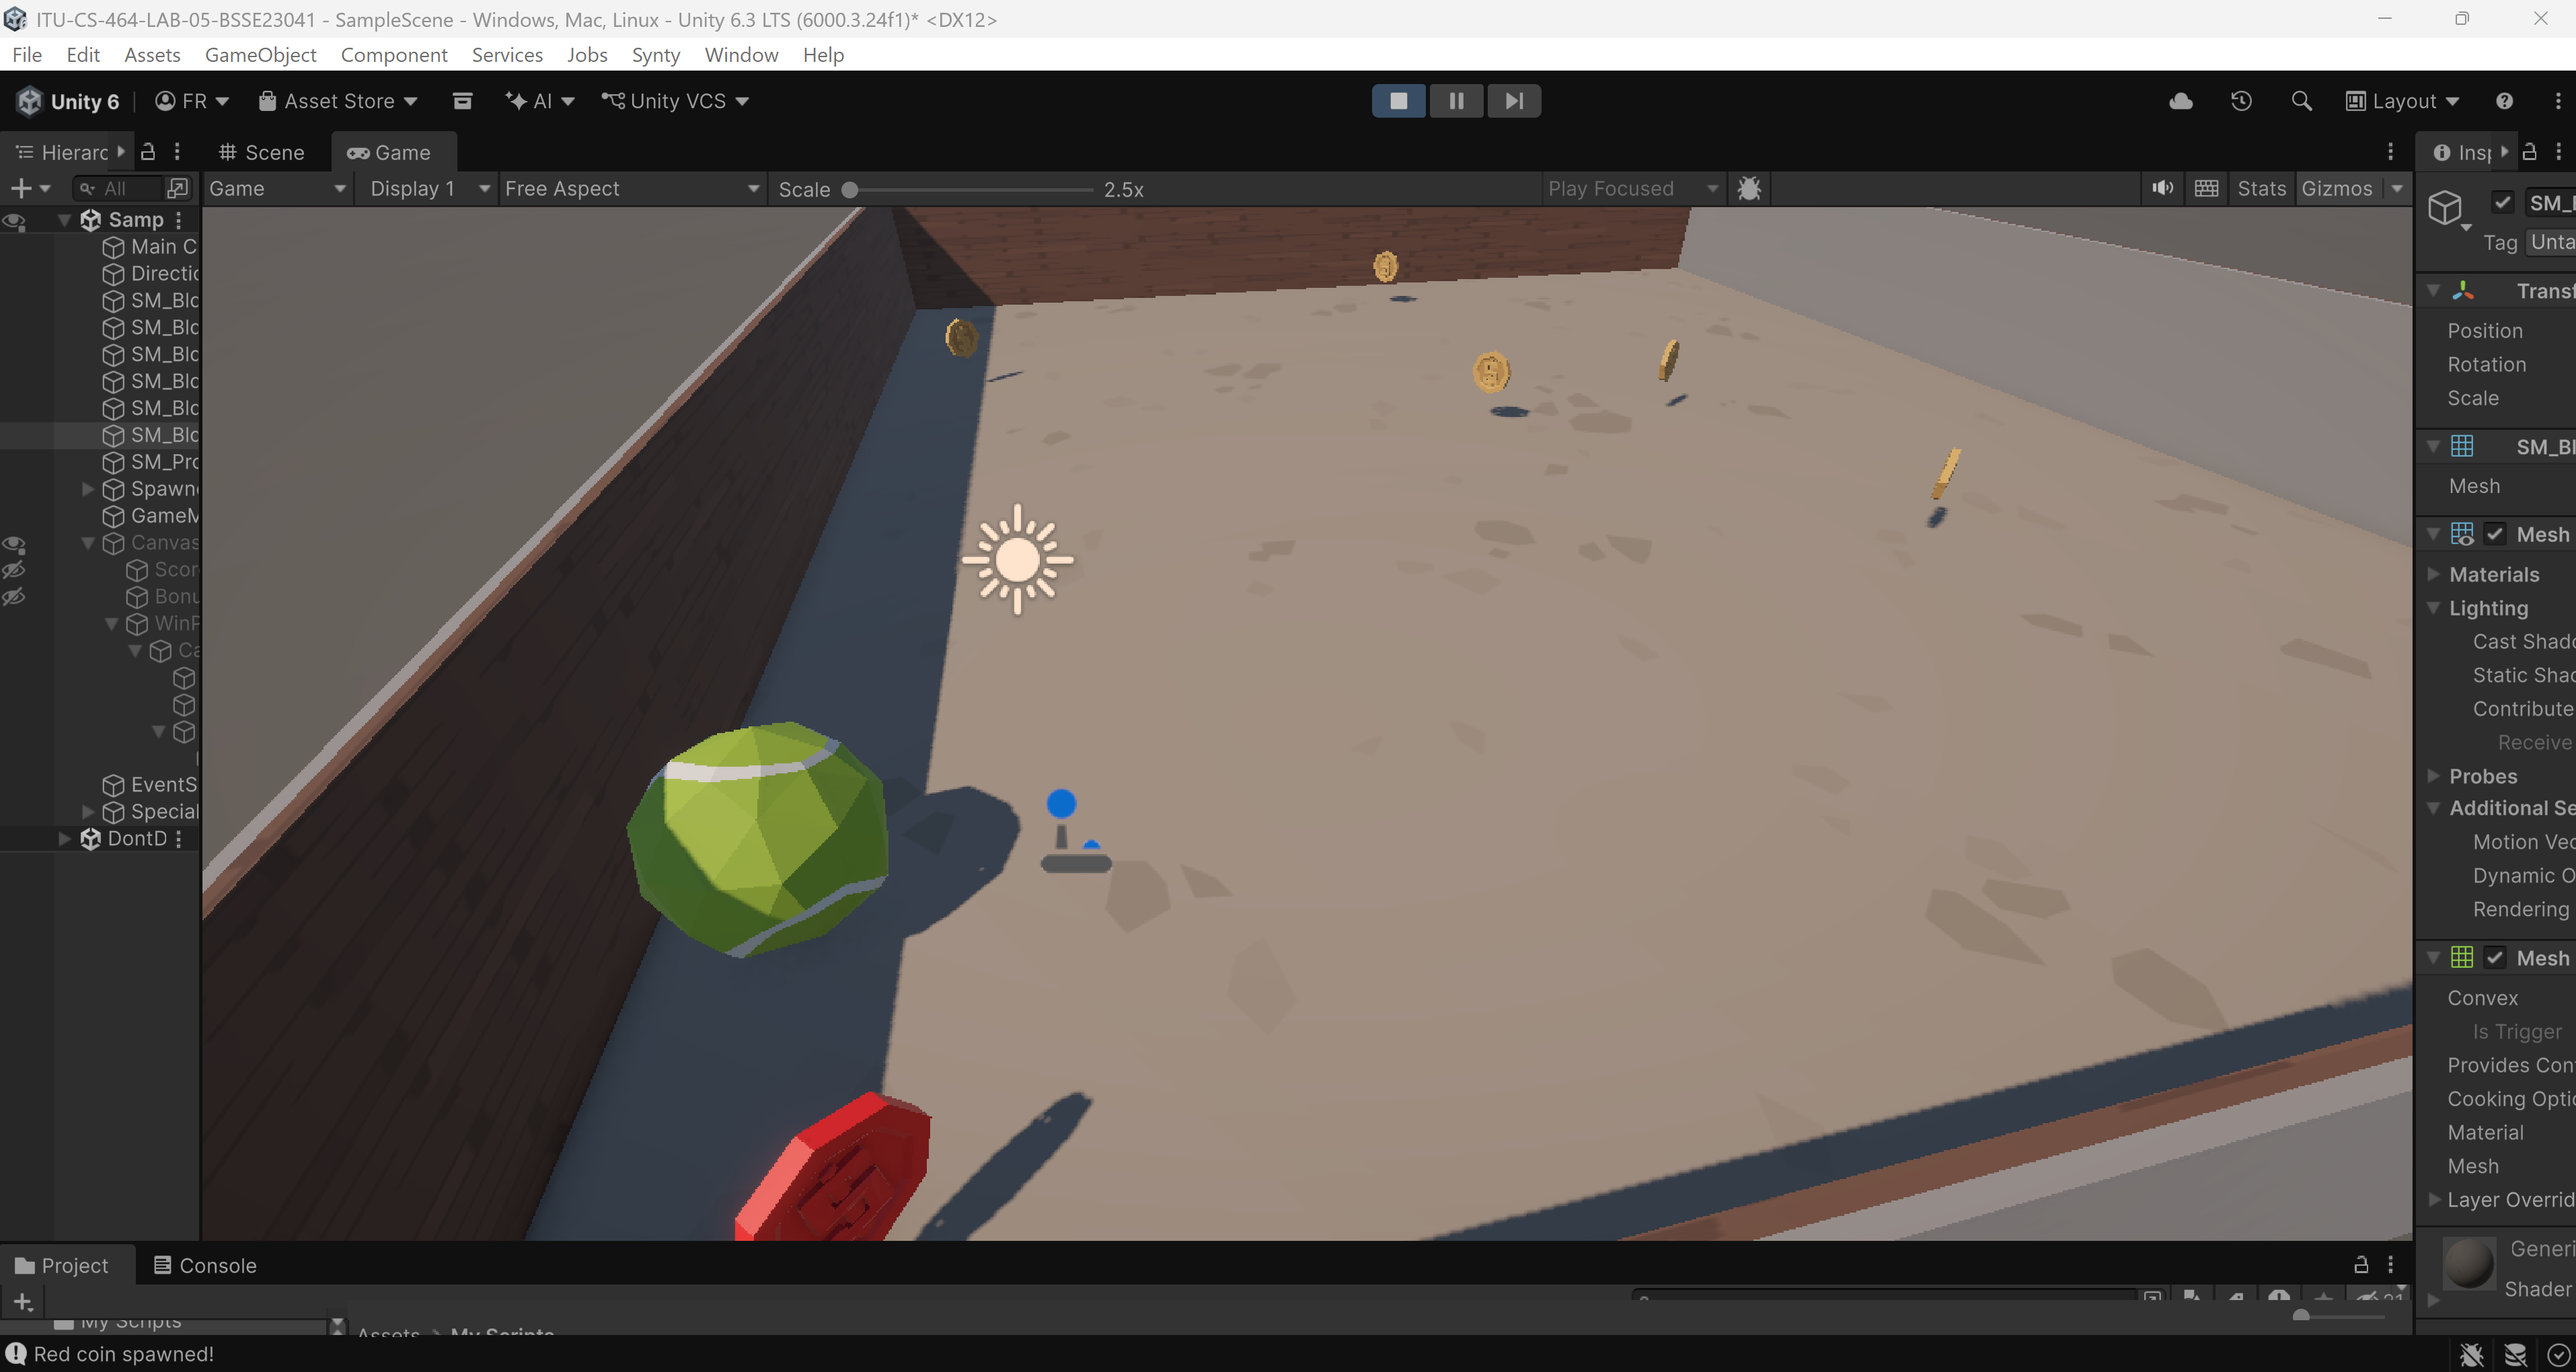
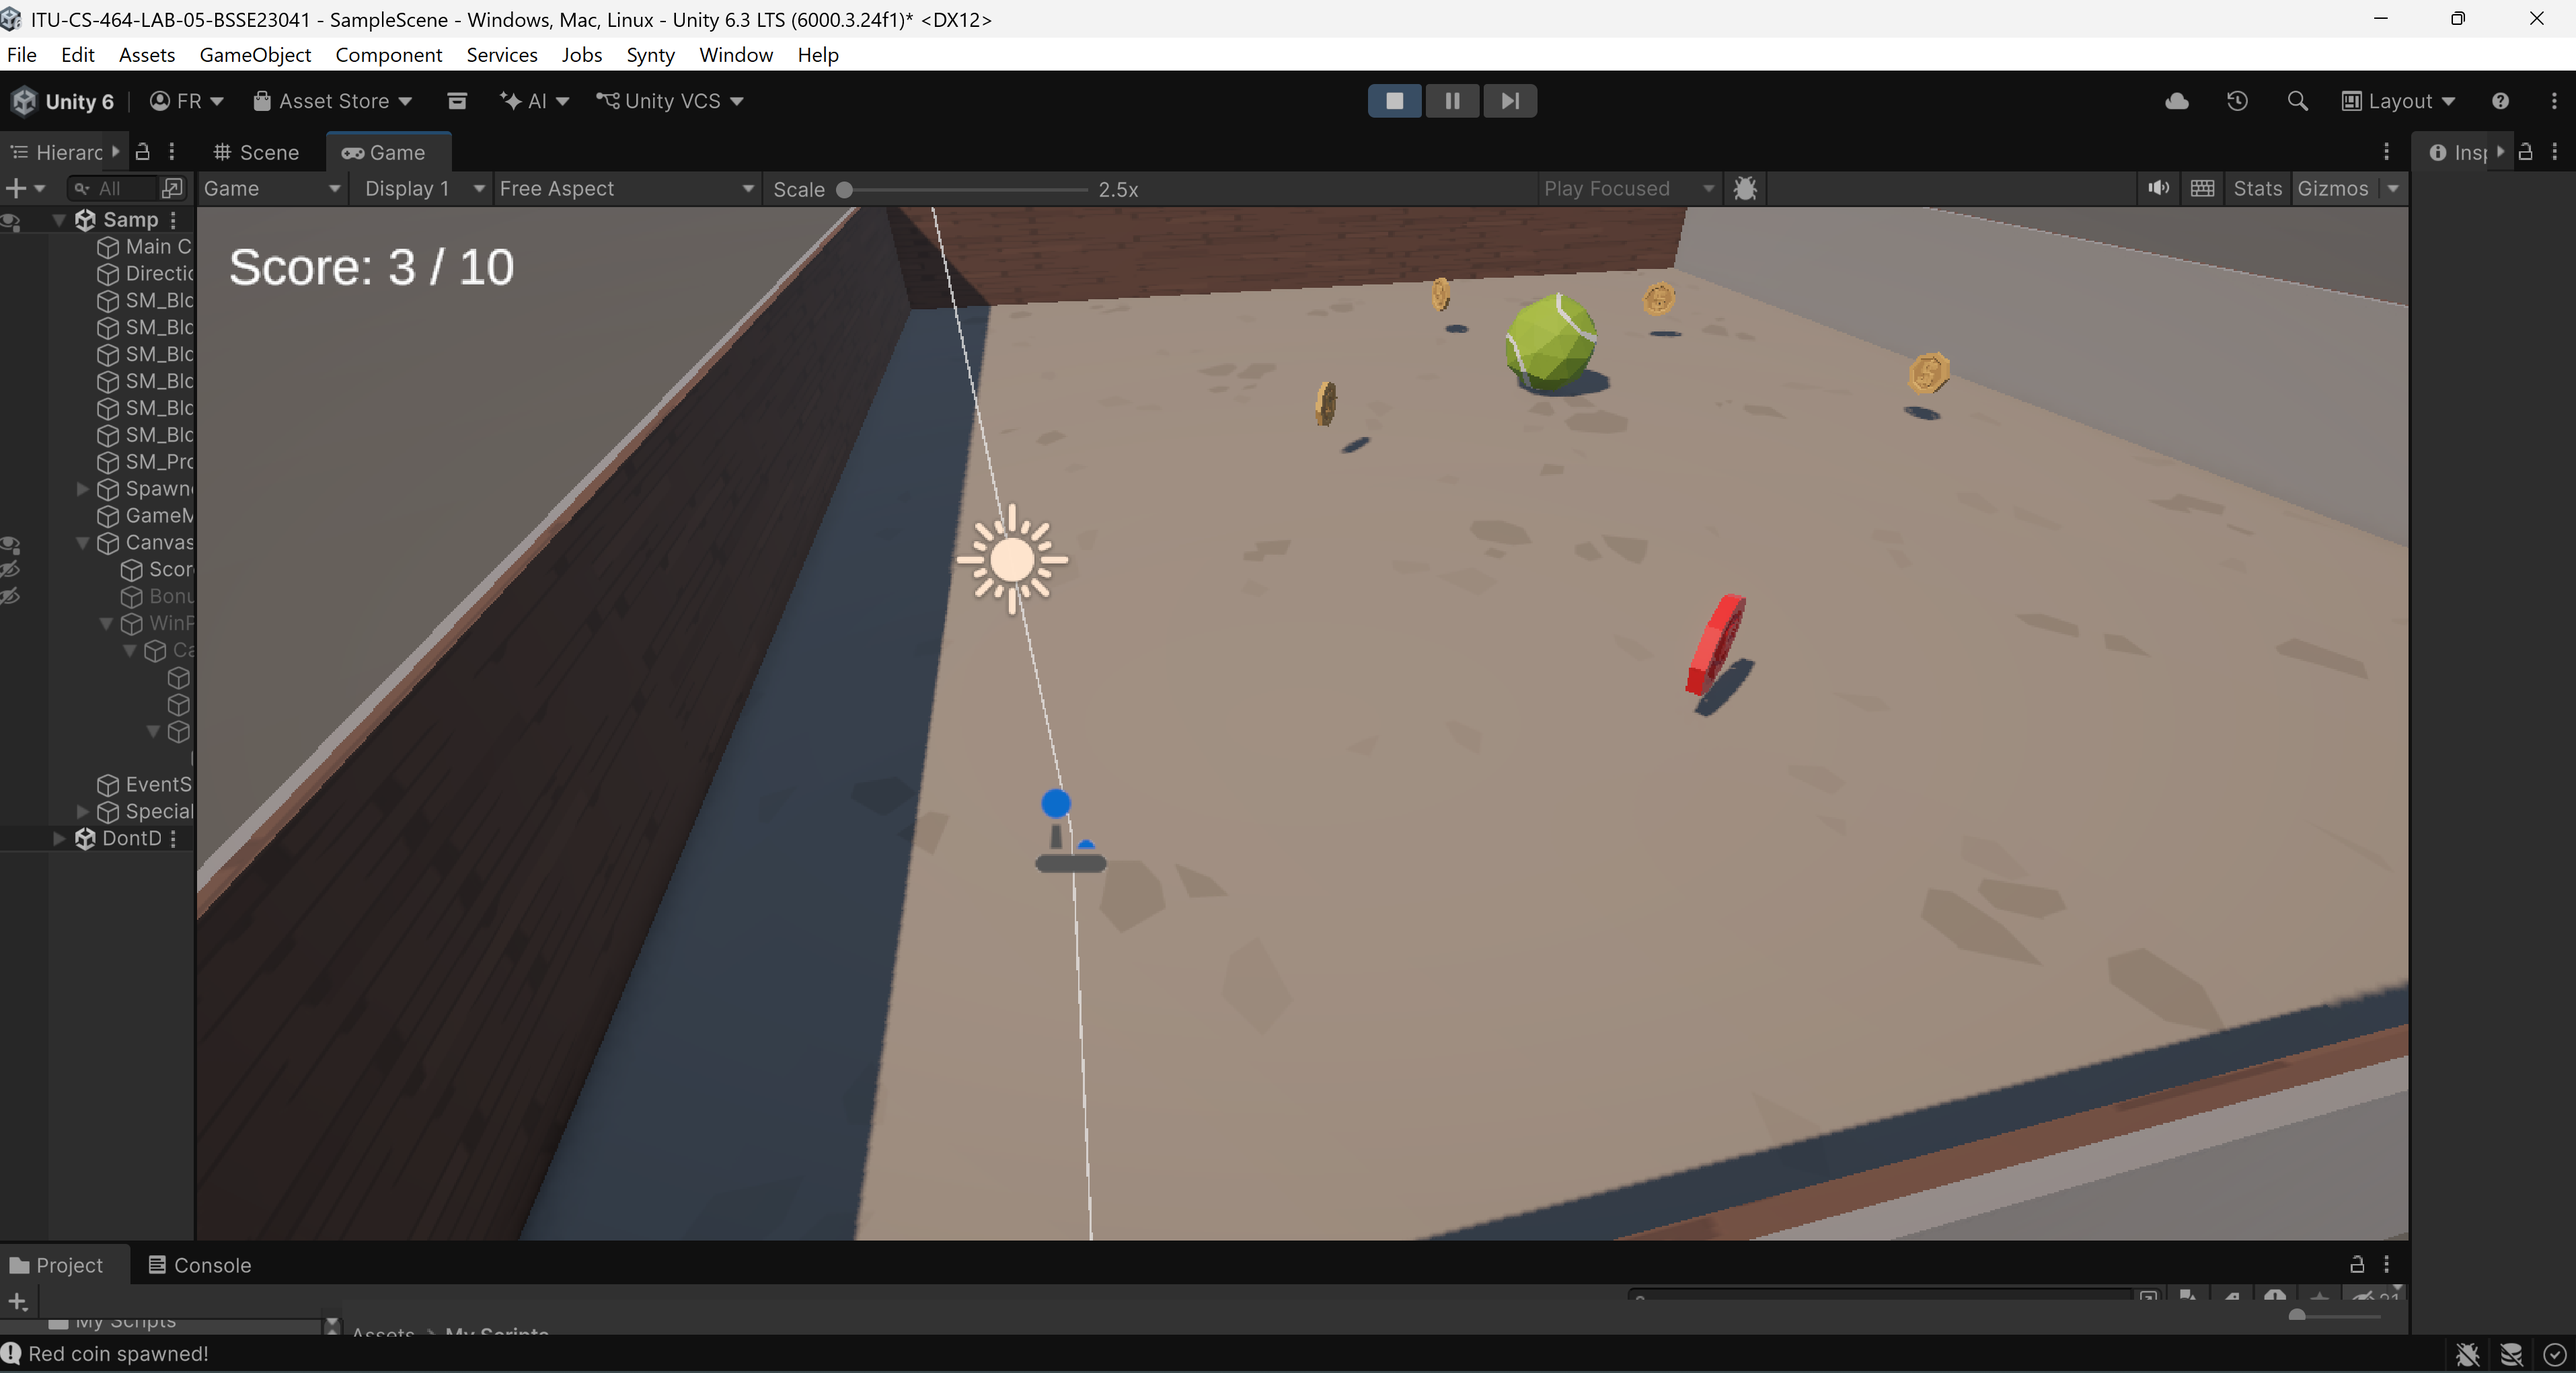
updated README.md with youtube link for screen recording of game play

diff --git a/README.md b/README.md
@@ -8,8 +8,6 @@
 **Game Engine:** Unity 6  
 **Language:** C#
 
----
-
 ## 🌟 About the Game
 
 This is a simple 3D coin collection game made in Unity. The player controls a tennis ball inside a small arena surrounded by walls.
@@ -22,7 +20,7 @@ To make the game more interesting, different types of coins, a bonus collection 
 
 I have recorded a short video showing how the game works, including coin collection, the bonus round, and the win screen.
 
-▶ **[Watch Gameplay on YouTube](PASTE_YOUR_YOUTUBE_LINK_HERE)**
+▶ **[Watch Gameplay on YouTube](https://youtu.be/eo4QiKOAv9Y)**
 
 ## 🕹 How to Play
 
@@ -33,29 +31,6 @@ I have recorded a short video showing how the game works, including coin collect
 5. **Collect bonus coins:** Collect the blue coins while the bonus counter tracks your progress.
 6. **Win the game:** Reach a score of 10 and collect all 50 blue coins to complete the game.
 7. **Play again:** Click the Restart button on the win screen to start a new game.
-
-## ✨ Features Implemented
-
-### 🟡 Gold Coin Collection
-- Gold coins appear automatically inside the arena.
-- Each collected coin increases the player's score.
-- New coins continue spawning during gameplay.
-
-### 🔴 Special Red Coin
-- One red coin appears at a random score between 1 and 10.
-- The red coin adds a new challenge to the game.
-- Collecting it unlocks the bonus coin round.
-
-### 🔵 Bonus Blue Coins
-- 50 blue coins appear in a circular pattern.
-- A hidden bonus counter becomes visible when the bonus round starts.
-- The counter updates as the player collects blue coins, for example `BonusCoins: 25/50`.
-
-### 🏆 Win Screen
-- A win screen appears when the player completes all the required tasks.
-- It displays a **YOU WIN!** message.
-- A Restart button allows the player to play again.
-- The win screen includes a dark background, a styled card, and a simple animation.
 
 ## 📸 Game Screenshots
 
